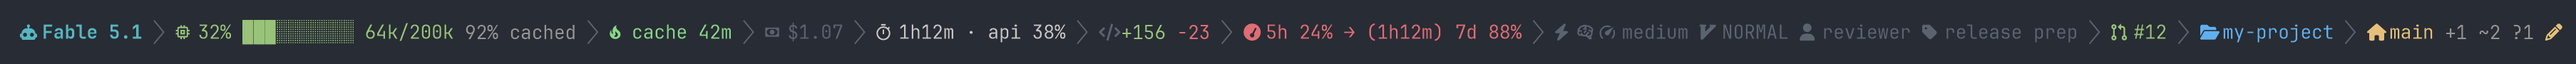
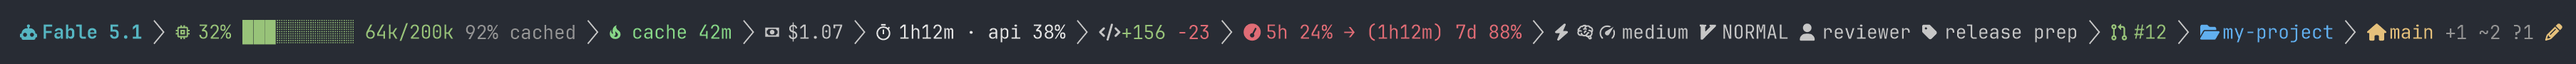
Fix dark dim palette contrast

Changed region(s): [[0.589, 0.3778, 0.806, 0.6222], [0.279, 0.3778, 0.434, 0.6222]]

diff --git a/docs/styles-and-palettes.md b/docs/styles-and-palettes.md
@@ -129,13 +129,14 @@ its backgrounds cannot carry a second shade at all and its repeated roles take t
 
 | Rule | Bar | Light table | Dark table |
 |---|---|---|---|
-| A plain-style colour against the terminal's background | 4.5:1 on `#FFFFFF` **and** on an off-white `#F5F5F5` | worst 5.25 (`warn`); the three **alternate** codes are held to it too, worst 6.17 (`warn` alt on `#F5F5F5`) | the seven base codes are the basic sixteen and are not asserted — what those look like is the terminal's to say. The four **alternate** codes are 256-colour indices and are held to it: worst 6.48 (`bad` alt on `#002B36`) |
+| A plain-style colour against the terminal's background | 4.5:1 on `#FFFFFF` **and** on an off-white `#F5F5F5` | worst 5.25 (`warn`); the three **alternate** codes are held to it too, worst 6.17 (`warn` alt on `#F5F5F5`) | the six hue bases are the basic sixteen and are not asserted; `dim` is `251` and its `254` alternate is also held to it: worst 6.48 (`bad` alt on `#002B36`), while `dim` is 8.79 and 11.81 on Solarized Dark |
 | A powerline block's own text against its own background | 4.5:1 | worst 9.14 (`folder`) | worst 4.70 (`ok`); `model` is 4.13 and exempt by name, older than the rule |
 | A block's background against the terminal's background — the trailing arrow paints it as a *foreground*, and every block edge is that boundary | 1.25:1 light, 1.7:1 dark, and 80 apart in sRGB on both — the one ratio bar that differs, and the note under the table says what bought it | worst 1.25 (`model`), 81.4 sRGB (`dim`) | worst 2.01 (`dim`) against Campbell, 84.7 sRGB (`ok` alt) |
 | The arrow *between* two blocks — one block's background painted on the next one's | 1.10:1 in luminance and 40 apart in sRGB, over every pair that can meet | worst 1.101 (`bad`/`dim`) and 56.6 | worst 1.104 and 40.0 |
 | An inline marker (`+156`, `92% cached`, `1M`, `↑2`) against the background of the block it sits in | 3:1 | worst 3.06 (`muted` in `folder`) | worst 3.01 |
 | The same marker against that block's **own text**, which it sits beside | 85 apart in sRGB | worst 95.0 | worst 89.6 |
 | An inline marker on the terminal's background in plain style | 4.5:1, on the two grounds each palette has: `#FFFFFF` and `#F5F5F5` for light, Campbell `#0C0C0C` and Solarized Dark `#002B36` for dark | worst 6.45 (`muted`) | worst 4.95 — `track` and `cached` are both 246; the other three markers are hues on the basic sixteen and are not asserted |
+| A dark `dim` plain code against `track` and `cached` inside a dim segment | 85 apart in sRGB | n/a | base 251 is 86.6 and alternate 254 is 138.6 from the unchanged 246 markers |
 | An alternate shade against the base it alternates with | within 20° of hue, on top of every rule above | 18° at worst (`warn`'s plain code, an amber to a darker olive-amber) | 8° at worst (`warn`'s block) |
 
 **Why the light bar against the terminal's background is 1.25 where the dark one is 1.7.** It is the
@@ -173,22 +174,17 @@ carries two colours and the block's own text colour picks between them.
 **The light table's plain-style colours are 256-colour codes rather than the basic sixteen on purpose,
 all twelve of them.** The sixteen are whatever your terminal's scheme says they are, which is the thing
 that goes wrong on a light theme in the first place; a table that cannot say what a colour looks like
-cannot promise it is readable. The dark table is *mostly* still the sixteen — see the next paragraph
-for which two values are not, and why the rest stay.
+cannot promise it is readable. The dark table still leaves its six hue roles to the terminal — and makes
+the measured neutral exception explicit.
 
-**Why the dark table's two markers moved, and why the rest of it did not.** `track` and `cached` — the
-`92% cached` suffix and the `↑2 ↓1 +3 ~1 ?2` branch counts — used to be `90`, bright black, on a dark
-plain line. That is one of the sixteen, so nothing above could measure it, and on Solarized Dark, whose
-bright black is `#586E75` on a `#002B36` background, it came out at 2.79:1: under even the 3:1 a marker
-clears inside a block, on the shipped default style. Both are `246` (`#949494`) now, the *lowest* index
-on the grey ramp that clears 4.5 on Campbell and on Solarized Dark alike, picked low so the line moves
-as little as it can. Nothing else in the dark table changed: `added` `32`, `removed` `31` and `muted`
-`22;36` are hues rather than greys, and the seven plain role colours — `dim` `90`, the chevron, among
-them — are the line's own text rather than a marker beside it. Replacing those is a redesign of what a
-dark plain line looks like on every install, not a repair, so it is left to its own decision — `dim`
-`90` is tracked as #111, since on Solarized Dark it measures the same 2.79:1 the markers did.
-That is why the first row of the table above still says *not asserted* for the dark column and the last
-row no longer does.
+**Why the dark table's markers stayed at 246 and `dim` moved.** `track` and `cached` — the `92% cached`
+suffix and the `↑2 ↓1 +3 ~1 ?2` branch counts — were moved from `90`, bright black, to `246` (`#949494`)
+by #88: the lowest grey ramp index that clears 4.5 on Campbell and Solarized Dark alike. #111 found the
+same 2.79:1 Solarized-Dark failure in the `dim` role: the chevron and cost, clock, time, lines, and
+badges text. `dim` is now `251` (`#C6C6C6`), 8.79:1 on Solarized Dark; its alternating code is `254`
+(`#E4E4E4`), 11.81:1. They are 52.0 sRGB apart, and are respectively 86.6 and 138.6 from the unchanged
+246 markers, so each clears the 85-distance rule for a marker beside dim text. The other six dark role
+codes — `1;36`, `32`, `33`, `31`, `34`, `35` — remain terminal-scheme hues: a scheme's tuned hue is preferable to turning that visual choice into a fixed cube colour.
 
 **What that costs on the one configuration it is not for.** `dark` is the default, so somebody on a
 *light* terminal who never set `palette` gets this table anyway, and there `246` is a fixed **3.03:1**
@@ -227,7 +223,7 @@ available shade reads base, alternate, base.
 | `ok` | 28 → **22** | `32` → **`38;5;114`** | 76 → none | `38;5;22` → none |
 | `warn` | 178 → **214** | `33` → **`38;5;221`** | 221 → none | `38;5;94` → **`38;5;58`** |
 | `bad` | 160 → **124** | `31` → **`38;5;210`** | 218 → none | `38;5;124` → **`38;5;88`** |
-| `dim` | 238 → none | `90` → **`38;5;251`** | 252 → none | `38;5;240` → **`38;5;237`** |
+| `dim` | 238 → none | `38;5;251` → **`38;5;254`** | 252 → none | `38;5;240` → **`38;5;237`** |
 
 **Which segments this reaches.** `ok`, `warn` and `bad` are the roles of context, cache, limits and the
 pull request — whichever of them the thresholds put a segment in — and `dim` is cost, clock, time,
@@ -282,13 +278,12 @@ consolation. A chevron in the block's own ink is 9.14:1 or better on a light blo
 shades that fitted the old backgrounds measure 1.008 to 1.022 against the new ones — the invisible
 arrow the rule exists to close.
 
-**The plain alternates are 256-colour indices in both tables**, even though the dark table's seven base
-codes are the basic sixteen. A colour chosen now has no reason to be a theme's own green, and one
-concrete reason not to be: Solarized Dark maps the bright half of the sixteen onto greys, so `32`
-beside `92` there would be a green beside a grey rather than a green beside a lighter green. The `dim`
-alternate `251` is also 86.6 sRGB from the `246` the markers inside those same segments are drawn in,
-which is [#111](https://github.com/ookla-ariel-ride/claude-code-statusline-ps/issues/111)'s constraint
-honoured in advance; `dim`'s base code `90` is untouched, and #111 is still open.
+**The plain alternates are 256-colour indices in both tables.** Six dark bases remain basic-sixteen
+hues, but dim is indexed because its terminal-defined bright black could not promise contrast. A colour
+chosen now has no reason to be a theme's own green, and one concrete reason not to be: Solarized Dark
+maps the bright half of the sixteen onto greys, so `32` beside `92` there would be a green beside a grey
+rather than a green beside a lighter green. The `dim` base `251` is 86.6 sRGB from the unchanged `246`
+markers inside those segments and its alternate `254` is 138.6 away; both satisfy [#111](https://github.com/ookla-ariel-ride/claude-code-statusline-ps/issues/111)'s 85-distance constraint.
 
 **Every layout is walked.** `test.ps1` builds every sample through the real segment builders, lays them
 out with both layouts *and* all three presets, renders each row in both palettes and all three styles,

diff --git a/README.md b/README.md
@@ -276,10 +276,8 @@ screenshots, is described in [docs/testing.md](docs/testing.md). Commits are sca
 ## Roadmap
 
 The feature backlog is done. [The open issues](https://github.com/ookla-ariel-ride/claude-code-statusline-ps/issues)
-record limits found under review: the dark palette's `dim` role still on the terminal's own bright
-black, 2.79:1 on Solarized Dark (#111), and test
-families that fail under parallel load (#94, #99, #102). The
-design record is [docs/projectbrief.md](docs/projectbrief.md).
+record the test families that can fail under parallel load (#94, #99, #102). The design record is
+[docs/projectbrief.md](docs/projectbrief.md).
 
 ## License
 
